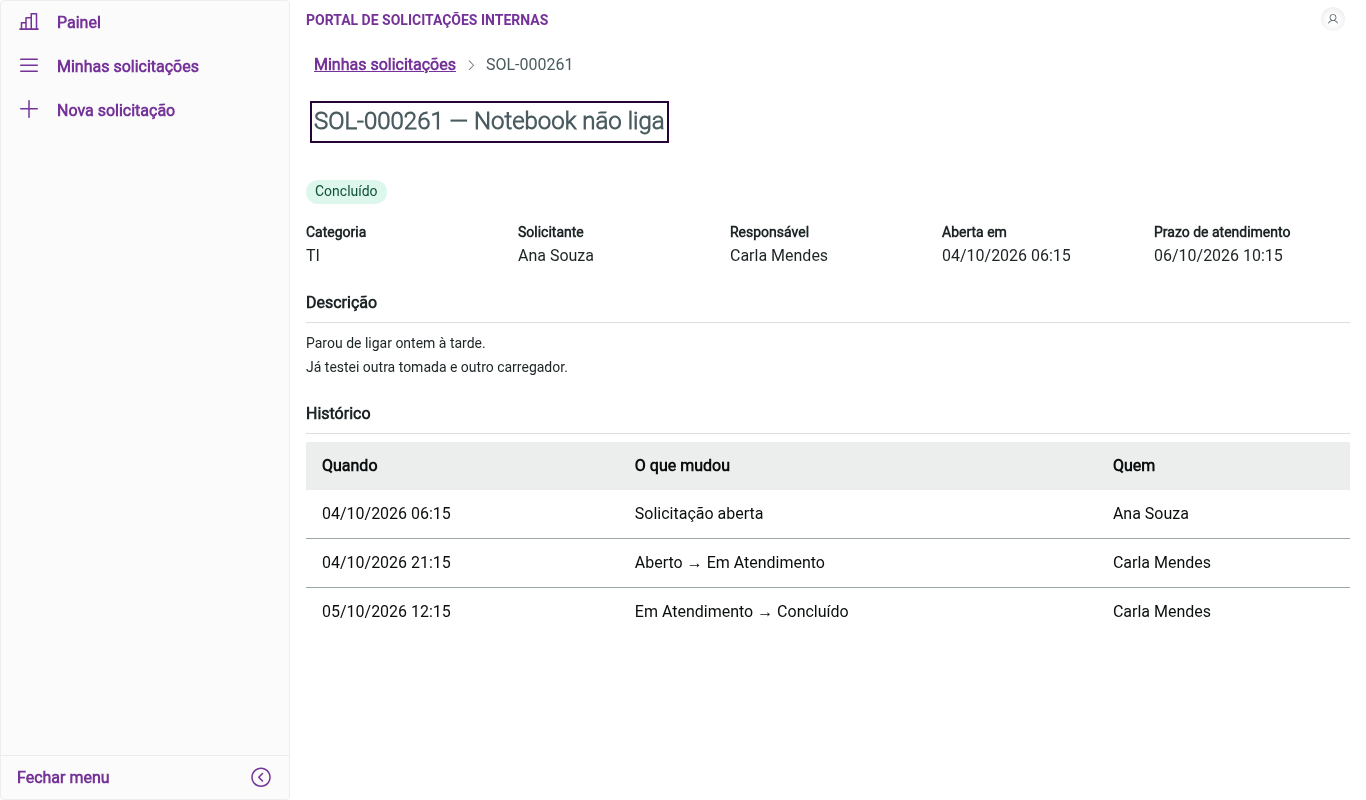
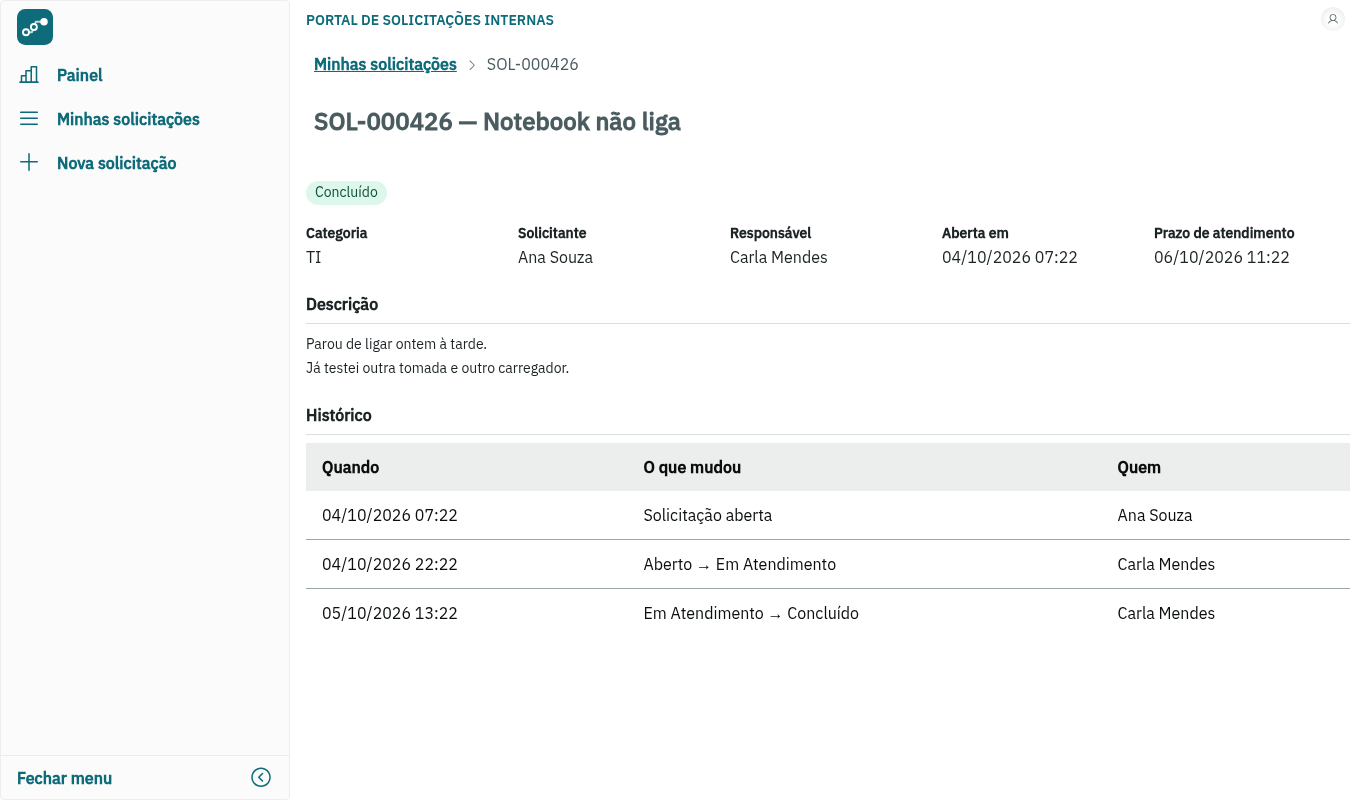
docs: refresh the screenshots and describe the new login, charts and data diagram
Evidências refeitas com o visual novo, incluindo telas no celular; memorial e README atualizados; diagrama das tabelas no dicionário de dados.

diff --git a/docs/memorial-tecnico.md b/docs/memorial-tecnico.md
@@ -26,14 +26,15 @@ Procurei a solução mais simples que atendesse ao enunciado inteiro. O que vai 
 | Log de acesso | morgan | 1.12 |
 | Documentação da API | Swagger (`@nestjs/swagger`) | 12.0 |
 | Frontend | Angular | 21.2 |
-| Componentes de interface | PO UI | 21.31 |
+| Componentes de interface | PO UI (`@po-ui/ng-components`) | 21.31 |
+| Template de login | PO UI Templates (`@po-ui/ng-templates`) | 21.31 |
 | Testes | Vitest, Supertest, Testcontainers | 4, 7, 12.2 |
 | Lint e formatação | Biome (API e `shared/`), angular-eslint e Prettier (frontend) | 2.5, 21.4, 3 |
 | Repositório | Workspace pnpm | 12 |
 | Execução | Docker Compose, nginx | — |
 | Integração contínua | GitHub Actions | — |
 
-São versões estáveis e com suporte na data da entrega. As dependências que escolhi à mão (Prisma, Zod, PO UI, Argon2, Helmet, Swagger) estão com a versão exata fixada no `package.json`.
+São versões estáveis e com suporte na data da entrega. As dependências que escolhi à mão (Prisma, Zod, PO UI, Argon2, Helmet, Swagger, Luxon, morgan) estão com a versão exata fixada no `package.json`.
 
 ## 3. Justificativa técnica
 
@@ -49,11 +50,11 @@ O enunciado avalia o uso de camadas, e o NestJS já organiza o código em módul
 
 ### PostgreSQL
 
-O enunciado pede banco SQL. O PostgreSQL é gratuito, tem imagem oficial para o Docker e oferece o que as consultas do painel usam (`COUNT(*) FILTER`, aritmética de datas com fuso). MySQL e SQL Server também atenderiam; escolhi o que consigo subir em qualquer máquina com um comando e sem licença.
+O enunciado pede banco SQL. O PostgreSQL é gratuito, tem imagem oficial para o Docker e oferece o que a modelagem usa (`CHECK`, `citext`, `timestamptz`). MySQL e SQL Server também atenderiam; escolhi o que consigo subir em qualquer máquina com um comando e sem licença.
 
 ### Prisma ORM
 
-O Prisma gera as migrações como arquivos `.sql` versionados, que são os scripts de criação pedidos na entrega, e gera os tipos das consultas a partir do schema, de modo que um nome de coluna errado é erro de compilação. Das alternativas, o TypeORM mistura o modelo de domínio com a persistência em decorators, e o Drizzle ainda não tinha versão 1.0 estável na data da escolha. Onde o ORM atrapalharia, usei SQL direto: a contagem do painel está escrita à mão em `dashboard.service.ts`, com parâmetros, porque é uma agregação que fica mais clara em SQL (`COUNT(*) FILTER`). Os tempos médios saem do histórico lido pelo Prisma e são calculados no TypeScript, porque contam horas úteis com a mesma função do prazo.
+O Prisma gera as migrações como arquivos `.sql` versionados, que são os scripts de criação pedidos na entrega, e gera os tipos das consultas a partir do schema, de modo que um nome de coluna errado é erro de compilação. Das alternativas, o TypeORM mistura o modelo de domínio com a persistência em decorators, e o Drizzle ainda não tinha versão 1.0 estável na data da escolha. Todo acesso ao banco passa pelas consultas tipadas do Prisma, inclusive as contagens do painel (`groupBy` por situação e contagem de solicitações por categoria); SQL escrito à mão só existe nas migrações, onde ficam os `CHECK`. Os tempos médios saem do histórico lido pelo Prisma e são calculados no TypeScript, porque contam horas úteis com a mesma função do prazo.
 
 ### Zod em um pacote compartilhado
 
@@ -73,9 +74,11 @@ O Angular é citado na descrição da vaga e é a base do PO UI. Ele traz roteam
 
 ### PO UI
 
-É a biblioteca de componentes da TOTVS. Para este projeto ela entrega a barra do topo e o menu, o cabeçalho e a trilha de navegação das telas, as tabelas, os campos de formulário, os botões, a janela de confirmação, os cartões do painel, as etiquetas de situação e os avisos, com o visual dos produtos TOTVS. O custo é o tamanho: o pacote inicial do frontend tem 3,4 MB (cerca de 650 kB transferidos), bem mais do que uma biblioteca menor exigiria.
+É a biblioteca de componentes da TOTVS. Para este projeto ela entrega a barra do topo e o menu, o cabeçalho e a trilha de navegação das telas, as tabelas, a tela de login (`po-page-login`, do pacote de templates), os campos de formulário, os botões, a janela de confirmação, os cartões do painel, as etiquetas de situação e os avisos, com o visual dos produtos TOTVS. O custo é o tamanho: o pacote inicial do frontend tem 3,6 MB (cerca de 700 kB transferidos), bem mais do que uma biblioteca menor exigiria.
 
-Todas as telas usam componentes do PO UI: `po-toolbar` e `po-menu` no layout, `po-page-default` (com `po-breadcrumb`) no cabeçalho, `po-table`, `po-modal` na confirmação, `po-login`, `po-password`, `po-datepicker` e `po-checkbox` nos campos. Onde a verificação de acessibilidade achou defeito num componente, corrigi por cima, com atributos ARIA e diretivas pequenas (`core/po-a11y.ts` e `core/field-a11y.ts`), sem trocar o componente nem escrever outro no lugar. O que não consegui consertar assim está na seção 6, em "Limitações". A lista dos ajustes está na seção 4, em "Acessibilidade".
+A identidade visual é do portal, aplicada sobre o tema do PO UI pelas variáveis CSS dele (`src/styles.scss`): paleta azul-petróleo no lugar do roxo padrão e a família IBM Plex Sans, servida pelo próprio app. Nenhum componente foi trocado por causa do visual.
+
+Todas as telas usam componentes do PO UI: `po-toolbar` e `po-menu` no layout, `po-page-default` (com `po-breadcrumb`) no cabeçalho, `po-table`, `po-modal` na confirmação, `po-datepicker` e `po-checkbox` nos campos, `po-chart` no painel, e `po-page-login` (de `@po-ui/ng-templates`) no login. Onde a verificação de acessibilidade achou defeito num componente, corrigi por cima, com atributos ARIA e diretivas pequenas (`core/po-a11y.ts` e `core/field-a11y.ts`), sem trocar o componente nem escrever outro no lugar. O que não consegui consertar assim está na seção 6, em "Limitações". A lista dos ajustes está na seção 4, em "Acessibilidade".
 
 ### Vitest, Supertest e Testcontainers
 
@@ -91,7 +94,7 @@ Um repositório com três pacotes (`shared`, `backend`, `frontend`) mantém o co
 
 ### Docker Compose e nginx
 
-O critério "executar sem adaptação" é atendido por um `compose.yaml` com três serviços e verificações de saúde: o banco sobe, a API aplica as migrações e o seed e só então a web fica disponível. O nginx serve os arquivos do frontend e encaminha `/api` para a API, o que põe tudo na mesma origem. Ele entrega os arquivos comprimidos (gzip): o bundle com o PO UI tem 3,5 MB e trafega com cerca de 680 kB. Os `.js` e `.css`, que levam um hash no nome, ficam um ano no cache do navegador, e o `index.html` é sempre conferido com o servidor. As portas são publicadas só em `127.0.0.1`, porque o compose serve em HTTP, e a API não publica porta nenhuma: só o nginx fala com ela. A verificação de saúde da API dá até dois minutos para as migrações e o seed da primeira subida, para uma máquina lenta não marcar a API como fora do ar. A imagem da API é construída em etapas: as dependências de desenvolvimento ficam na etapa de build, e a imagem final leva só o código compilado, as dependências de produção e as migrações.
+O critério "executar sem adaptação" é atendido por um `compose.yaml` com três serviços e verificações de saúde: o banco sobe, a API aplica as migrações e o seed e só então a web fica disponível. O nginx serve os arquivos do frontend e encaminha `/api` para a API, o que põe tudo na mesma origem. Ele entrega os arquivos comprimidos (gzip): o bundle com o PO UI tem 3,6 MB e trafega com cerca de 700 kB. Os `.js` e `.css`, que levam um hash no nome, ficam um ano no cache do navegador, e o `index.html` é sempre conferido com o servidor. As portas são publicadas só em `127.0.0.1`, porque o compose serve em HTTP, e a API não publica porta nenhuma: só o nginx fala com ela. A verificação de saúde da API dá até dois minutos para as migrações e o seed da primeira subida, para uma máquina lenta não marcar a API como fora do ar. A imagem da API é construída em etapas: as dependências de desenvolvimento ficam na etapa de build, e a imagem final leva só o código compilado, as dependências de produção e as migrações.
 
 ### GitHub Actions
 
@@ -126,12 +129,13 @@ No frontend, `core/` concentra o que é transversal (chamadas à API, sessão, i
 
 Referência: WCAG 2.2, nível AA. Conferência: o axe-core (regras automáticas) em cada tela e roteiros que percorrem as telas só com o teclado, nas larguras de 1366, 683 (zoom de 200%), 390 e 320 px. O que a conferência mudou no código:
 
-- **Estrutura**: a barra do topo é marcada como `banner` e o menu tem nome ("Menu principal"). O `po-page-default` desenha o título da tela como `h2`; ele recebe `aria-level="1"` para ser o título principal. Na primeira carga e a cada troca de tela o foco vai para esse título, que é também o título da aba, e há um atalho "Pular para o conteúdo".
+- **Estrutura**: a barra do topo é marcada como `banner` e o `po-menu` inteiro, com a marca dentro, é a região de navegação, com o nome "Menu principal". O `po-page-default` desenha o título da tela como `h2`; ele recebe `aria-level="1"` para ser o título principal. Na primeira carga e a cada troca de tela o foco vai para esse título, que é também o título da aba, e há um atalho "Pular para o conteúdo".
 - **Menu e Sair**: no `po-menu`, Enter e Espaço num item não navegavam (o componente cancela a tecla e só marca o item), o botão do menu no celular só respondia ao mouse e o menu fechado deixava paradas de Tab fora da tela. Agora os dois teclados navegam, o botão é um botão de verdade, o menu fechado fica inerte e o item da tela atual leva `aria-current`. O "Sair" fica no menu do usuário do `po-toolbar`, cujo ícone de perfil só respondia ao clique; agora o teclado o alcança.
-- **Diálogo de confirmação** sobre o `po-modal`, que prende o foco, fecha com Esc e devolve o foco ao botão que abriu. Ele não se apresentava como diálogo ao leitor de tela: o componente `core/confirm-dialog.ts` grava `role="dialog"`, `aria-modal` e a ligação com o título e a mensagem. O botão de confirmar diz a ação ("Iniciar atendimento", "Excluir"), não "Confirmar". O `po-modal` só leva o foco para dentro se já estiver desenhado; como o app agrupa eventos e desenha no quadro seguinte, forço o desenho antes de abrir.
+- **Diálogo de confirmação** sobre o `po-modal`, que devolve o foco ao botão que abriu. Ele deixava o Tab escapar para a página de trás e ignorava o Esc quando o foco saía; o componente `core/confirm-dialog.ts` traz o foco de volta e fecha com Esc em qualquer caso. O `po-modal` também não se apresentava como diálogo ao leitor de tela: o mesmo componente grava `role="dialog"`, `aria-modal` e a ligação com o título e a mensagem. O botão de confirmar diz a ação ("Iniciar atendimento", "Excluir"), não "Confirmar". O `po-modal` só leva o foco para dentro se já estiver desenhado; como o app agrupa eventos e desenha no quadro seguinte, forço o desenho antes de abrir.
+- **Login**: o `po-page-login` não tem região principal nem anuncia o erro de senha ao leitor de tela; a tela o envolve em `main` e repete a mensagem num aviso só para leitor de tela.
 - **Trilha de navegação**: no `po-breadcrumb` o item atual era uma parada de Tab sem função e tinha `aria-current` com o texto do item; agora o item é só texto e leva `aria-current="page"`.
-- **Tabelas**: a área do `po-table` que rola de lado não recebia foco nem tinha nome; agora é uma região nomeada, que o teclado alcança. O código da solicitação é um link.
-- **Campos**: no `po-datepicker` os seletores de mês e ano do calendário não tinham rótulo, e Enter no campo não enviava o filtro; agora têm "Mês" e "Ano" e o Enter envia. O `po-login` e o `po-password` não aceitam `autocomplete="username"` e `"current-password"`, e o olho de "mostrar senha" só respondia ao mouse; a diretiva grava o autocomplete e o olho virou um botão. O `po-checkbox` deixava `aria-checked` num elemento sem função, que a diretiva remove.
+- **Tabelas**: a área do `po-table` que rola de lado não recebia foco nem tinha nome; agora é uma região nomeada, que o teclado alcança. O código da solicitação é um link. O botão do `po-chart` que mostra os dados do gráfico em tabela era só um ícone; agora tem nome ("Ver os dados do gráfico em tabela").
+- **Campos**: no `po-datepicker` os seletores de mês e ano do calendário não tinham rótulo, e Enter no campo não enviava o filtro; agora têm "Mês" e "Ano" e o Enter envia. O `po-checkbox` deixava `aria-checked` num elemento sem função, que a diretiva remove.
 - **Erros de formulário**: cada campo aponta para a sua mensagem (`aria-describedby`, `aria-invalid`), e ao salvar com erro o foco vai para o primeiro campo inválido. Nos campos do PO UI essa ligação é feita por uma diretiva pequena (`core/field-a11y.ts`), porque o componente não a oferece.
 - **Sessão**: cinco minutos antes de expirar por falta de uso (ou na metade do tempo, numa sessão curta) aparece um aviso com "Continuar conectado", para ninguém perder o que estava digitando. A API informa em cada resposta, inclusive nas de erro, o tempo da sessão e quanto falta dele (cabeçalhos `X-Session-Idle-Minutes` e `X-Session-Remaining-Seconds`), então o aviso acompanha `SESSION_IDLE_MINUTES` e o fim real no servidor.
 - **Avisos** (confirmações e erros) ficam 15 segundos na tela, tempo para serem lidos ou ouvidos até o fim.
@@ -221,7 +225,7 @@ Testes: cada um parte de uma regra do sistema, não de uma linha de código. Sã
 | Fora do prazo | Não concluída e com o prazo vencido; tem cartão no painel e filtro na lista | Mostra o que pede ação agora. "Fora do prazo", e não "Atrasada", porque a etiqueta aparece ao lado de "Aberto" e "Em Atendimento", os nomes de status do enunciado |
 | Concluídas fora do prazo | Concluídas depois do prazo; cartão próprio no painel | Mede o prazo cumprido, que o cartão "Fora do prazo" deixa de contar quando a solicitação é concluída |
 | Tempos médios | Até o início (da abertura a Em Atendimento) e até a conclusão (da abertura a Concluído), em horas úteis, a mesma régua do prazo: aberta na sexta às 17h e iniciada na segunda às 9h esperou 2 h, não 64 h; a API devolve horas com uma casa decimal e a tela mostra "N h úteis" (sem converter em dias: 24 h úteis são mais de dois dias de expediente), ou "Sem dados" enquanto não há registros | Separam a espera pela primeira resposta do tempo total, e saem do histórico, sem dado novo |
-| Painel | Oito números (total, um por status, fora do prazo, concluídas fora do prazo, tempo médio até o início, tempo médio até a conclusão), no escopo de quem vê; os cinco primeiros abrem a lista já filtrada | Colaborador vê os seus números; atendente, os de todos |
+| Painel | Oito números (total, um por status, fora do prazo, concluídas fora do prazo, tempo médio até o início, tempo médio até a conclusão) e dois gráficos (`po-chart`): solicitações por situação e por categoria. Tudo no escopo de quem vê; os cartões de situação e o de fora do prazo abrem a lista já filtrada | Colaborador vê os seus números; atendente, os de todos |
 | Categoria inexistente ou inativa | 400 apontando o campo `categoryId` | É erro de preenchimento, e o formulário consegue indicar o campo |
 | Filtro por período | Datas no fuso `APP_TIMEZONE` (padrão `America/Fortaleza`); o último dia entra inteiro | O banco guarda UTC; sem a conversão, uma solicitação aberta às 22h cairia no dia seguinte |
 | Título | De 3 a 120 caracteres, contados como o banco conta (um emoji é um caractere) | Cabe numa linha da tabela e num assunto de e-mail |
@@ -252,7 +256,7 @@ Testes: cada um parte de uma regra do sistema, não de uma linha de código. Sã
 
 ### Pontos em aberto
 
-- **Ajustes de acessibilidade por cima do PO UI.** As diretivas de `core/po-a11y.ts` procuram elementos pelas classes internas dos componentes (`po-menu-nav`, `po-page-header-title`, `po-toolbar-profile` e outras). Numa atualização da biblioteca essas classes podem mudar e o ajuste deixa de valer sem erro de compilação; o roteiro de acessibilidade, que não está no repositório, é o que acusaria. Vale rodá-lo a cada atualização do PO UI.
+- **Ajustes de acessibilidade por cima do PO UI.** As diretivas de `core/po-a11y.ts` procuram elementos pelas classes internas dos componentes (`po-menu-item-link`, `po-page-header-title`, `po-toolbar-profile` e outras). Numa atualização da biblioteca essas classes podem mudar e o ajuste deixa de valer sem erro de compilação; o roteiro de acessibilidade, que não está no repositório, é o que acusaria. Vale rodá-lo a cada atualização do PO UI.
 
 ### Melhorias futuras
 
@@ -261,7 +265,7 @@ Testes: cada um parte de uma regra do sistema, não de uma linha de código. Sã
 - Calendário de feriados e expediente configurável no cálculo do prazo.
 - Telas de administração de categorias e usuários.
 - Trilha de auditoria das edições, não só do status.
-- Exportação da lista e gráficos por categoria e período no painel.
+- Exportação da lista e gráficos por período no painel.
 - Testes de tela e de acessibilidade automatizados no repositório.
 
 ### Requisitos que poderiam ser aperfeiçoados

diff --git a/README.md b/README.md
@@ -3,7 +3,7 @@
 Sistema web em que colaboradores registram demandas internas (TI, RH, Compras, Financeiro, Infraestrutura) e acompanham cada uma até a conclusão. Atendentes veem todas as solicitações e avançam o status: Aberto → Em Atendimento → Concluído.
 
 - **Backend:** API REST em NestJS 12 (TypeScript), Prisma 7 e PostgreSQL 18
-- **Frontend:** SPA em Angular 21 com PO UI 21
+- **Frontend:** SPA em Angular 21 com PO UI 21 (componentes e template de login)
 - **Infra:** Docker Compose (banco, API e web atrás de um nginx) e GitHub Actions
 
 Documentação complementar:
@@ -129,7 +129,7 @@ Todas as rotas ficam sob `/api` e exigem sessão, menos o login, a saída (logou
 | `PATCH /api/requests/:id` | Edita título, descrição ou categoria (só quem abriu, só em Aberto) |
 | `DELETE /api/requests/:id` | Exclusão lógica (só quem abriu, só em Aberto): some das telas e do painel, mas fica no banco com o histórico |
 | `PATCH /api/requests/:id/status` | Avança o status (só atendente, nunca numa solicitação que ele abriu). Quem inicia o atendimento vira o responsável, e só ele conclui |
-| `GET /api/dashboard/summary` | Números do painel, no escopo de quem consulta |
+| `GET /api/dashboard/summary` | Números do painel e total por categoria, no escopo de quem consulta |
 | `GET /api/health` | Responde 200 se a API alcança o banco |
 
 Chamadas que alteram dados (`POST`, `PATCH`, `DELETE`) precisam do cabeçalho `X-Requested-With: XMLHttpRequest`, que é a defesa contra CSRF. O portal e o Swagger já o enviam; com `curl`:
@@ -157,7 +157,7 @@ O workflow `.github/workflows/ci.yml` executa os cinco, nessa ordem, a cada pull
 
 ## Evidências
 
-Telas capturadas com o projeto rodando pelo Docker Compose e os dados de exemplo. As 15 imagens estão em [`docs/evidencias/`](docs/evidencias).
+Telas capturadas com o projeto rodando pelo Docker Compose e os dados de exemplo. As 18 imagens estão em [`docs/evidencias/`](docs/evidencias).
 
 | Tela | Imagem |
 |---|---|
@@ -168,6 +168,8 @@ Telas capturadas com o projeto rodando pelo Docker Compose e os dados de exemplo
 | Detalhe com o histórico de status | ![Detalhe com histórico](docs/evidencias/06-detalhe-concluida-historico.png) |
 | Confirmação da mudança de status | ![Confirmação de status](docs/evidencias/08-confirmacao-de-status.png) |
 | Lista no celular | ![Lista no celular](docs/evidencias/09-lista-celular.png) |
+| Painel no celular | ![Painel no celular](docs/evidencias/10-painel-celular.png) |
+| Login no celular | ![Login no celular](docs/evidencias/16-login-celular.png) |
 
 ## Estrutura do projeto
 

diff --git a/docs/dicionario-de-dados.md b/docs/dicionario-de-dados.md
@@ -12,6 +12,64 @@ Os scripts de criação são as migrações em [`backend/prisma/migrations/`](..
 
 É SQL puro: roda com `psql -f`, um arquivo depois do outro, num banco vazio, ou com `pnpm --filter backend db:deploy`, que é o que o container da API faz ao subir.
 
+## Diagrama
+
+```mermaid
+erDiagram
+    users ||--o{ sessions : "abre"
+    users ||--o{ requests : "solicita"
+    users |o--o{ requests : "atende"
+    categories ||--o{ requests : "classifica"
+    requests ||--|{ request_status_history : "registra"
+    users ||--o{ request_status_history : "altera"
+
+    users {
+        int id PK
+        citext username UK
+        user_role role
+        boolean active
+    }
+    sessions {
+        int id PK
+        char token_hash UK
+        int user_id FK
+        timestamptz last_seen_at
+        timestamptz expires_at
+    }
+    categories {
+        smallint id PK
+        citext name UK
+        smallint sla_hours
+        boolean active
+    }
+    requests {
+        int id PK
+        varchar title
+        smallint category_id FK
+        int requester_id FK
+        int assignee_id FK
+        request_status status
+        timestamptz due_at
+        timestamptz deleted_at
+    }
+    request_status_history {
+        int id PK
+        int request_id FK
+        request_status from_status
+        request_status to_status
+        int changed_by FK
+        timestamptz changed_at
+    }
+    login_failures {
+        int id PK
+        varchar ip
+        citext username
+        timestamptz failed_at
+    }
+```
+
+O diagrama mostra as chaves e as colunas que explicam as relações; as demais colunas estão nas seções de cada tabela.
+
 ## Convenções
 
 - Tabelas e colunas em inglês, `snake_case`, tabelas no plural.
